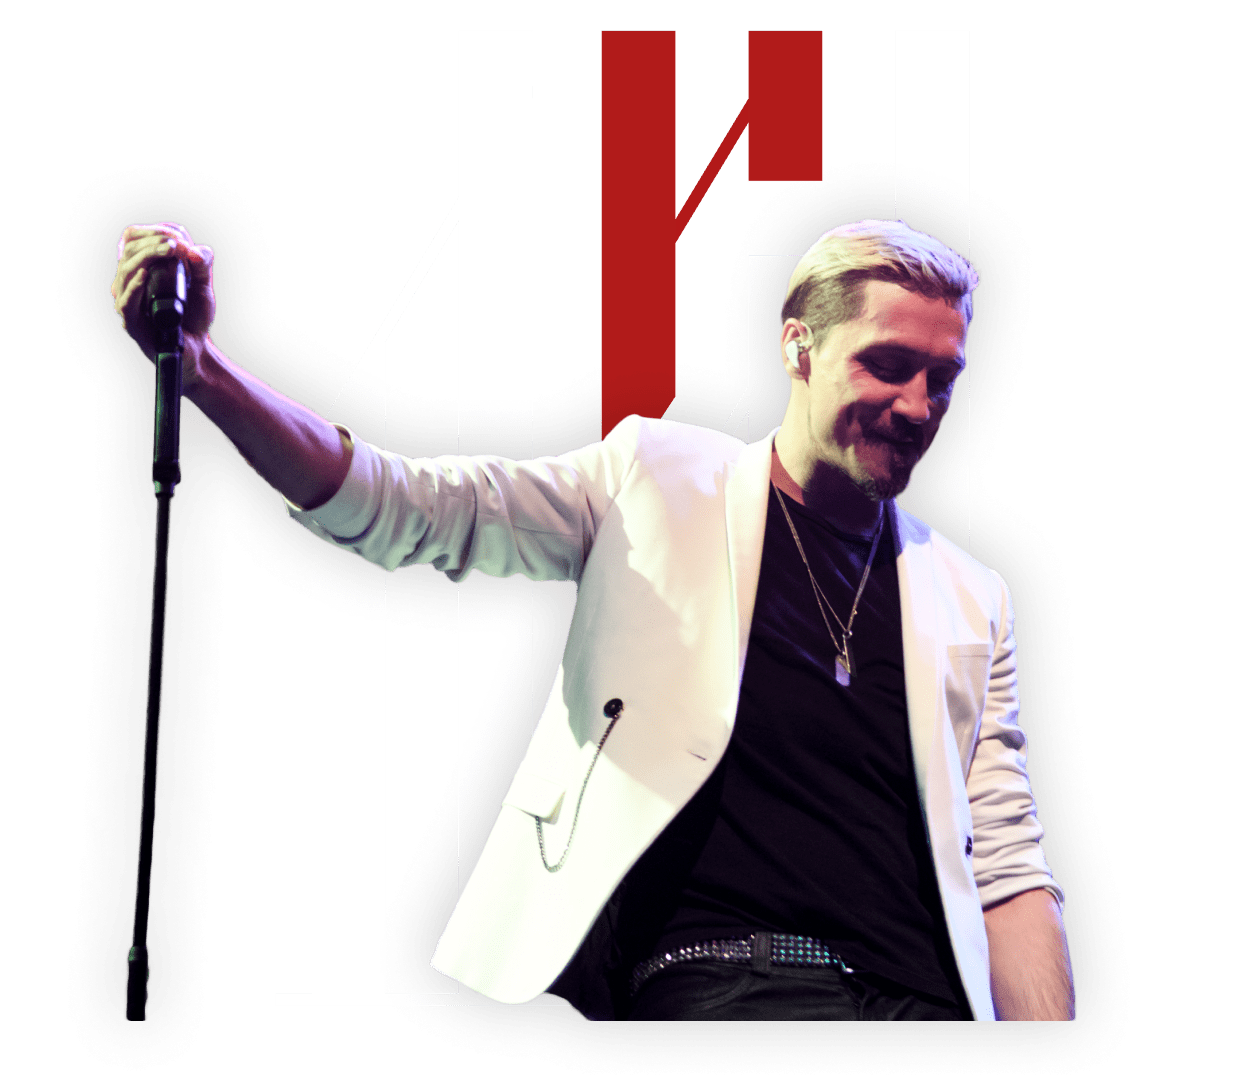
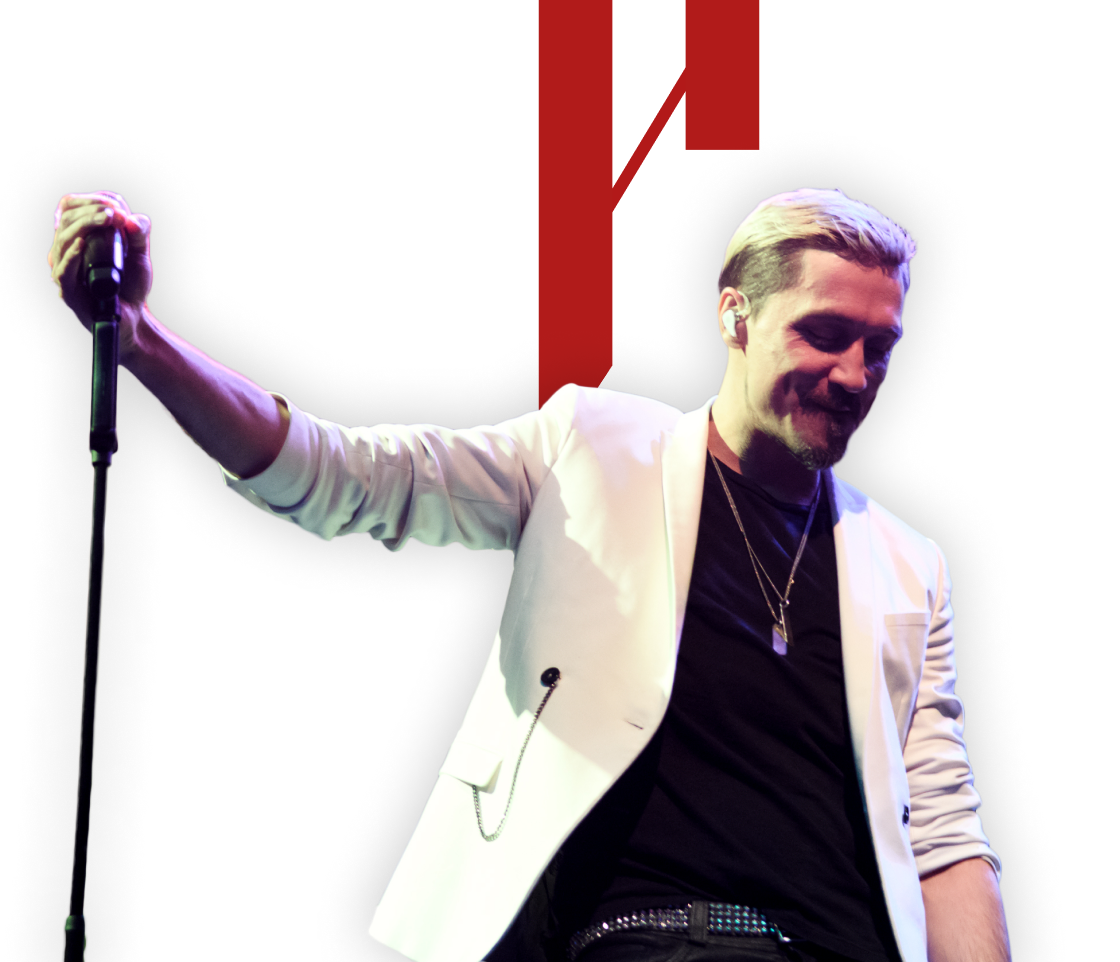
feat: верстка блока обратной связи

Changed region(s): [[0.0312, 0.0, 0.9062, 1.0], [0.3438, 0.842, 0.375, 0.9044], [0.3438, 0.9979, 0.375, 1.0]]

diff --git a/src/index.html b/src/index.html
@@ -339,7 +339,11 @@
 
     <section id="partners" class="section">
       <div class="container">
-        <h2 class="section__title text-xl-center text-xxl-start mb-2">Портфолио</h2>
+        <div class="section__heading">
+          <h2 class="section__title text-xl-center text-xxl-start mb-2">Портфолио</h2>
+        </div>
+        <!-- /.section__heading -->
+
         <h2 class="section__title section__title--large section__title--center">Нашим менеджерам доверяют</h2>
 
         <div class="partners">
@@ -415,6 +419,85 @@
           <!-- /.partners__action -->
         </div>
         <!-- /.partners -->
+      </div>
+      <!-- /.container -->
+    </section>
+
+    <section id="callback" class="section">
+      <div class="container">
+        <div class="section__heading">
+          <h2 class="section__title mb-2">Контакты</h2>
+        </div>
+        <!-- /.section__heading -->
+
+        <h2 class="section__title section__title--large">
+          Хотите крутое
+          <br>
+          мероприятие?
+        </h2>
+
+        <div class="callback">
+          <form action="" data-target="callback" data-additional="event" class="callback__form form form-callback">
+            <div class="row">
+              <div class="col-6">
+                <div class="input">
+                  <input placeholder="Имя" autocomplete="off" type="text" name="user__name" class="input__field">
+                  <img data-tippy-content="" class="input__warning" src="img/icons/misc/warning.svg" alt="">
+                </div>
+                <!-- /.input -->
+              </div>
+              <!-- /.col-6 -->
+
+              <div class="col-6">
+                <div class="input">
+                  <input placeholder="Телефон" autocomplete="off" type="tel" name="user__phone" class="input__field">
+                  <img data-tippy-content="" class="input__warning" src="img/icons/misc/warning.svg" alt="">
+                </div>
+                <!-- /.input -->
+              </div>
+              <!-- /.col-6 -->
+
+              <div class="col-6">
+                <div class="input input--error">
+                  <input placeholder="E-mail" autocomplete="off" type="email" name="user__email" class="input__field">
+                  <img data-tippy-content="" class="input__warning" src="img/icons/misc/warning.svg" alt="">
+                </div>
+                <!-- /.input -->
+              </div>
+              <!-- /.col-6 -->
+
+              <div class="col-6">
+                <div class="input">
+                  <input placeholder="Услуга" autocomplete="off" type="text" name="user__request" class="input__field">
+                  <img data-tippy-content="" class="input__warning" src="img/icons/misc/warning.svg" alt="">
+                </div>
+                <!-- /.input -->
+              </div>
+              <!-- /.col-6 -->
+
+              <div class="col-12">
+                <div class="input">
+                  <textarea rows="5" placeholder="Опишите формат мероприятия" autocomplete="off" name="user__message" class="input__field input__field--box"></textarea>
+                  <img data-tippy-content="" class="input__warning" src="img/icons/misc/warning.svg" alt="">
+                </div>
+                <!-- /.input -->
+              </div>
+              <!-- /.col-6 -->
+            </div>
+            <!-- /.row -->
+
+            <div class="form__action">
+              <button data-sending="Отправка..." class="form__button button button-outline" type="submit">Свяжитесь с нами</button>
+            </div>
+            <!-- /.form__action -->
+          </form>
+
+          <div class="callback__picture">
+            <img src="img/pictures/callback/picture.png" alt="" class="callback__image image">
+          </div>
+          <!-- /.callback__picture -->
+        </div>
+        <!-- /.callback -->
       </div>
       <!-- /.container -->
     </section>

diff --git a/src/scss/components/input/_input.scss b/src/scss/components/input/_input.scss
@@ -1,0 +1,66 @@
+$border: #a2a2a2;
+$border--focus: #ffffff;
+$border--error: #b11b1a;
+
+.input {
+  position: relative;
+
+  &__field {
+    width: 100%;
+    border: none;
+    border-bottom: 2px solid $border;
+
+    padding: 8px 0;
+
+    outline: none;
+    background: none;
+
+    font-size: $font-size__text--regular;
+    color: $color-text__white;
+
+    transition: $transition__component;
+
+    &--box {
+      resize: none;
+    }
+
+    @media (hover: hover) {
+      &:hover {
+        border-color: $border--focus;
+      }
+    }
+
+    &:focus {
+      border-color: $border--focus;
+    }
+  }
+
+  &__warning {
+    position: absolute;
+    top: 50%;
+    right: 10px;
+
+    width: 18px;
+    height: 18px;
+
+    transform: translateY(-50%);
+
+    cursor: help;
+
+    visibility: hidden;
+    opacity: 0;
+
+    transition: 0.2s ease;
+  }
+
+  &--error {
+    .input__field {
+      border-color: $border--error;
+    }
+
+    .input__warning {
+      opacity: 1;
+      visibility: visible;
+    }
+  }
+}

diff --git a/src/scss/layout/pages/main/_callback.scss b/src/scss/layout/pages/main/_callback.scss
@@ -1,0 +1,30 @@
+#callback {
+  padding-bottom: 215px;
+
+  @include breakpoint($breakpoint-laptop--large) {
+    padding-bottom: 150px;
+  }
+
+  .container {
+    position: static;
+  }
+}
+
+.callback {
+  &__form {
+    max-width: 530px;
+  }
+
+  &__picture {
+    position: absolute;
+    right: 0;
+    bottom: 0;
+
+    width: 1120px;
+
+    @include breakpoint($breakpoint-laptop--large) {
+      right: -60px;
+      width: 700px;
+    }
+  }
+}

diff --git a/src/scss/components/form/_main.scss b/src/scss/components/form/_main.scss
@@ -3,4 +3,5 @@
 // и подключение дополнительных вариаций
 // -----------------------------------------------------------------------------
 
-@import 'form';
+@import "form";
+@import "callback";

diff --git a/src/scss/components/modal/_main.scss b/src/scss/components/modal/_main.scss
@@ -3,4 +3,4 @@
 // и подключение дополнительных вариаций
 // -----------------------------------------------------------------------------
 
-@import 'modal';
+@import "modal";

diff --git a/src/scss/components/form/_callback.scss b/src/scss/components/form/_callback.scss
@@ -1,0 +1,12 @@
+.form-callback {
+  .row > div {
+    &:not(:last-child) {
+      margin-bottom: 45px;
+    }
+  }
+
+  .form__action {
+    margin-top: 100px;
+    text-align: center;
+  }
+}

diff --git a/src/scss/layout/_layout.scss b/src/scss/layout/_layout.scss
@@ -17,3 +17,4 @@
 @import "pages/main/service";
 @import "pages/main/about";
 @import "pages/main/partners";
+@import "pages/main/callback";

diff --git a/src/scss/components/section/_section.scss b/src/scss/components/section/_section.scss
@@ -13,6 +13,10 @@
     }
   }
 
+  &__heading {
+    position: relative;
+  }
+
   &__title {
     position: absolute;
     top: 0;
